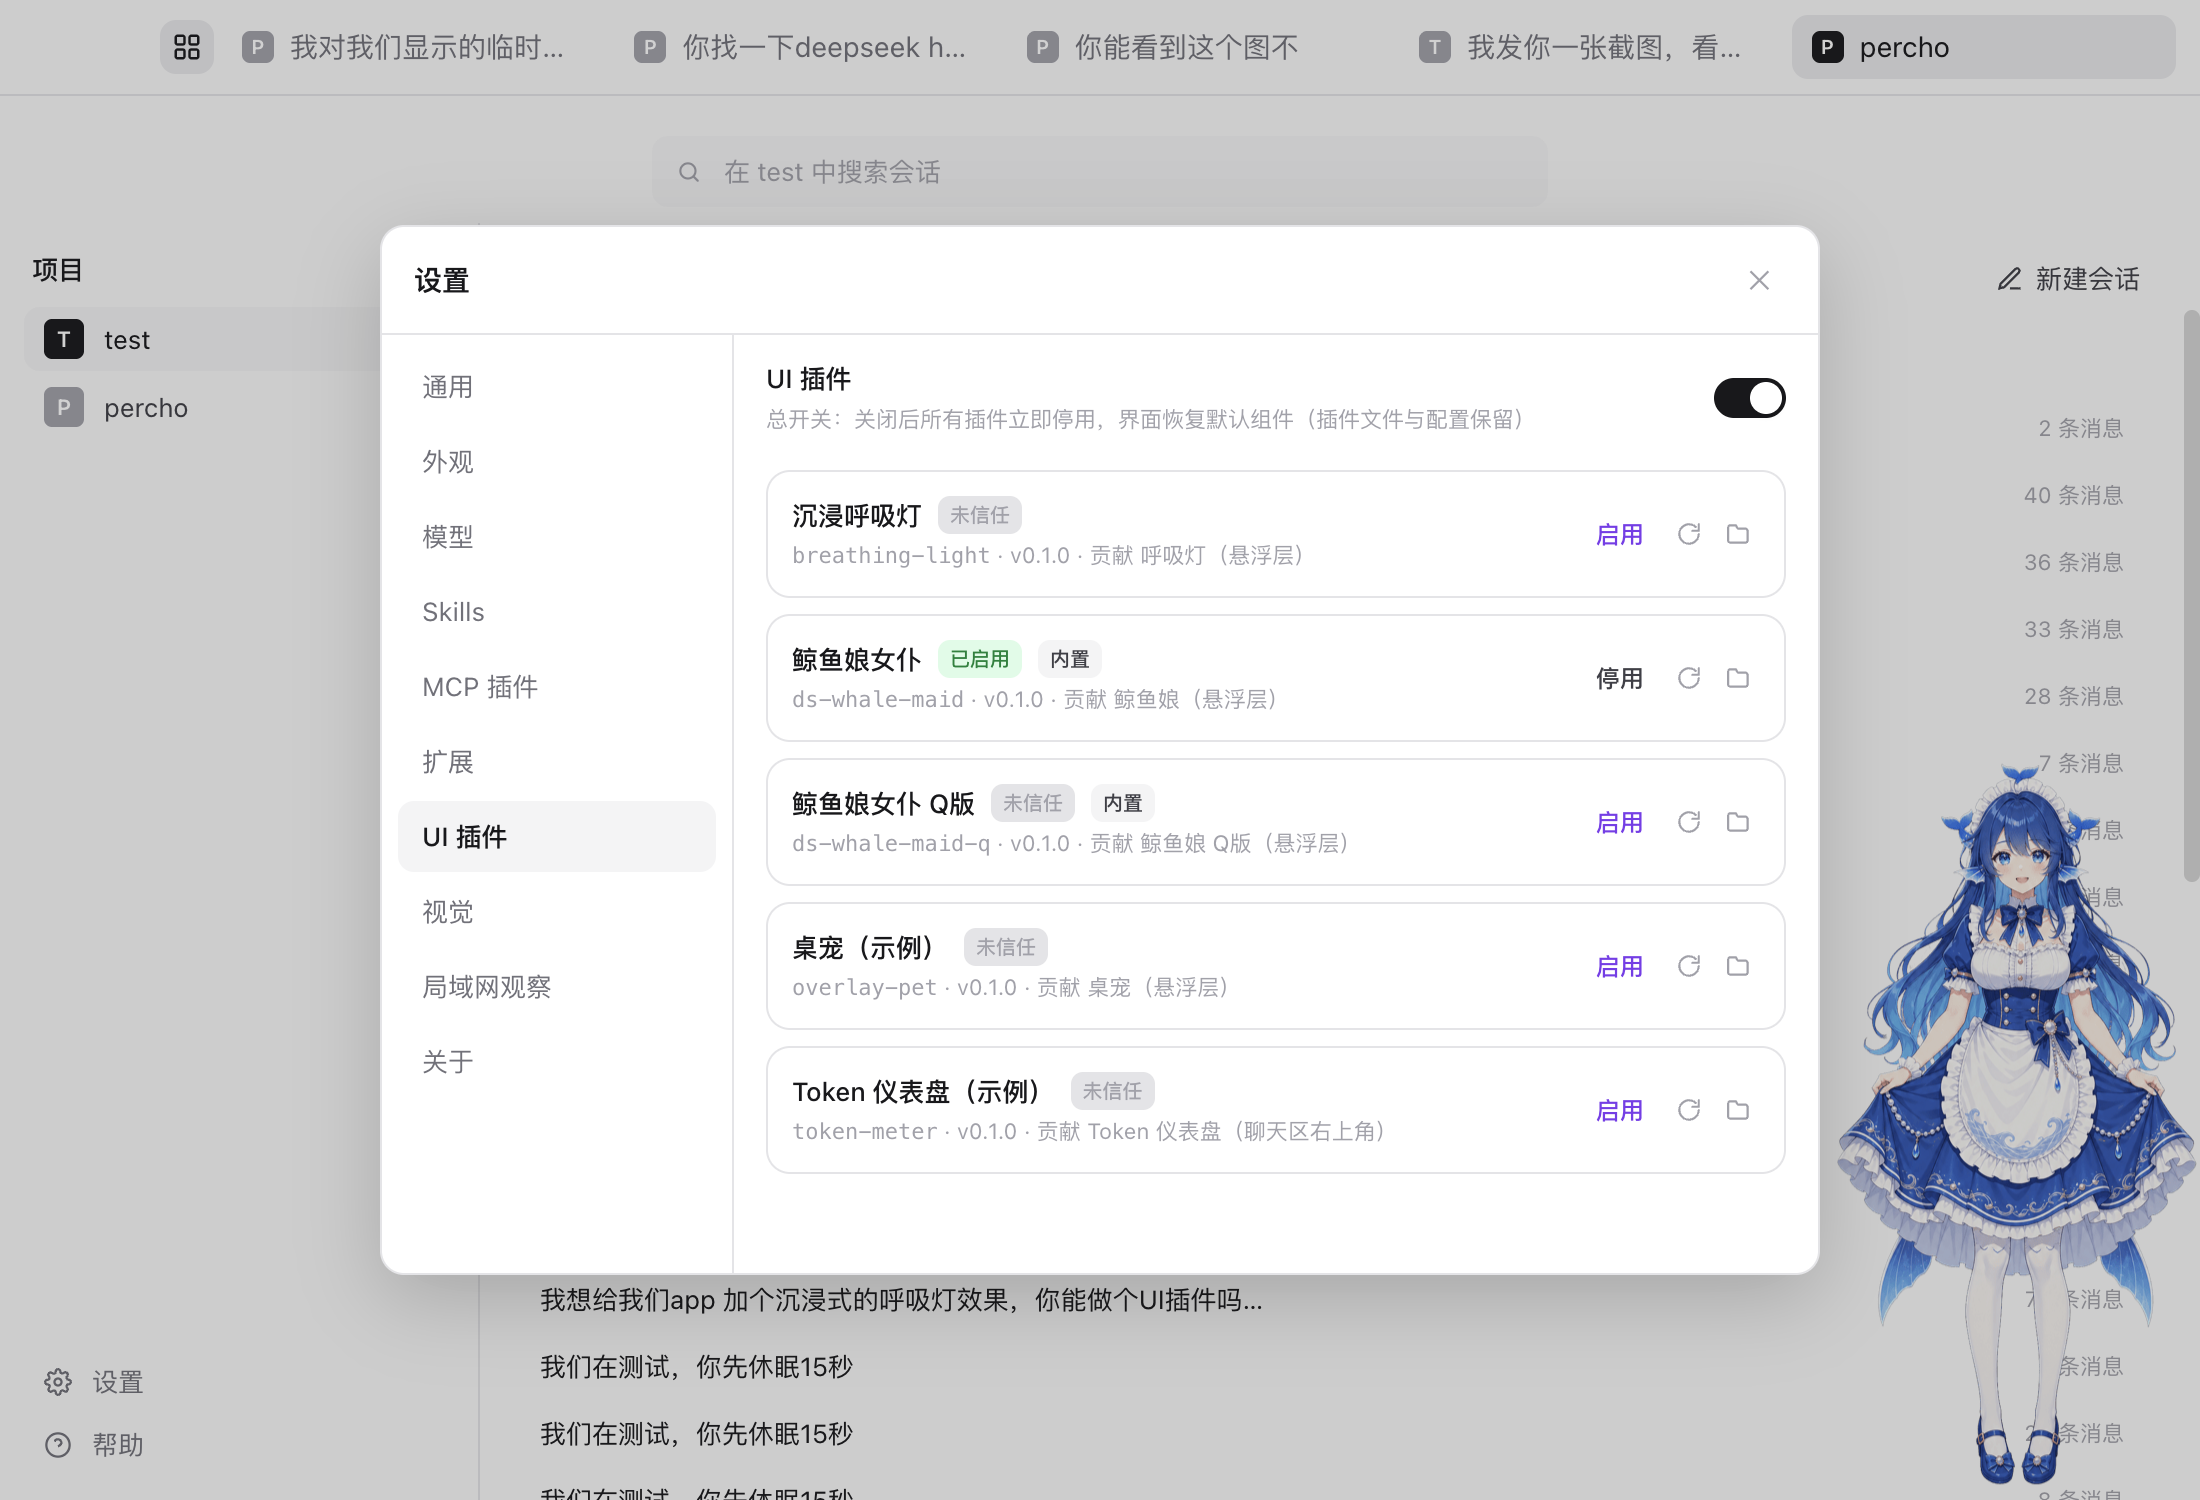
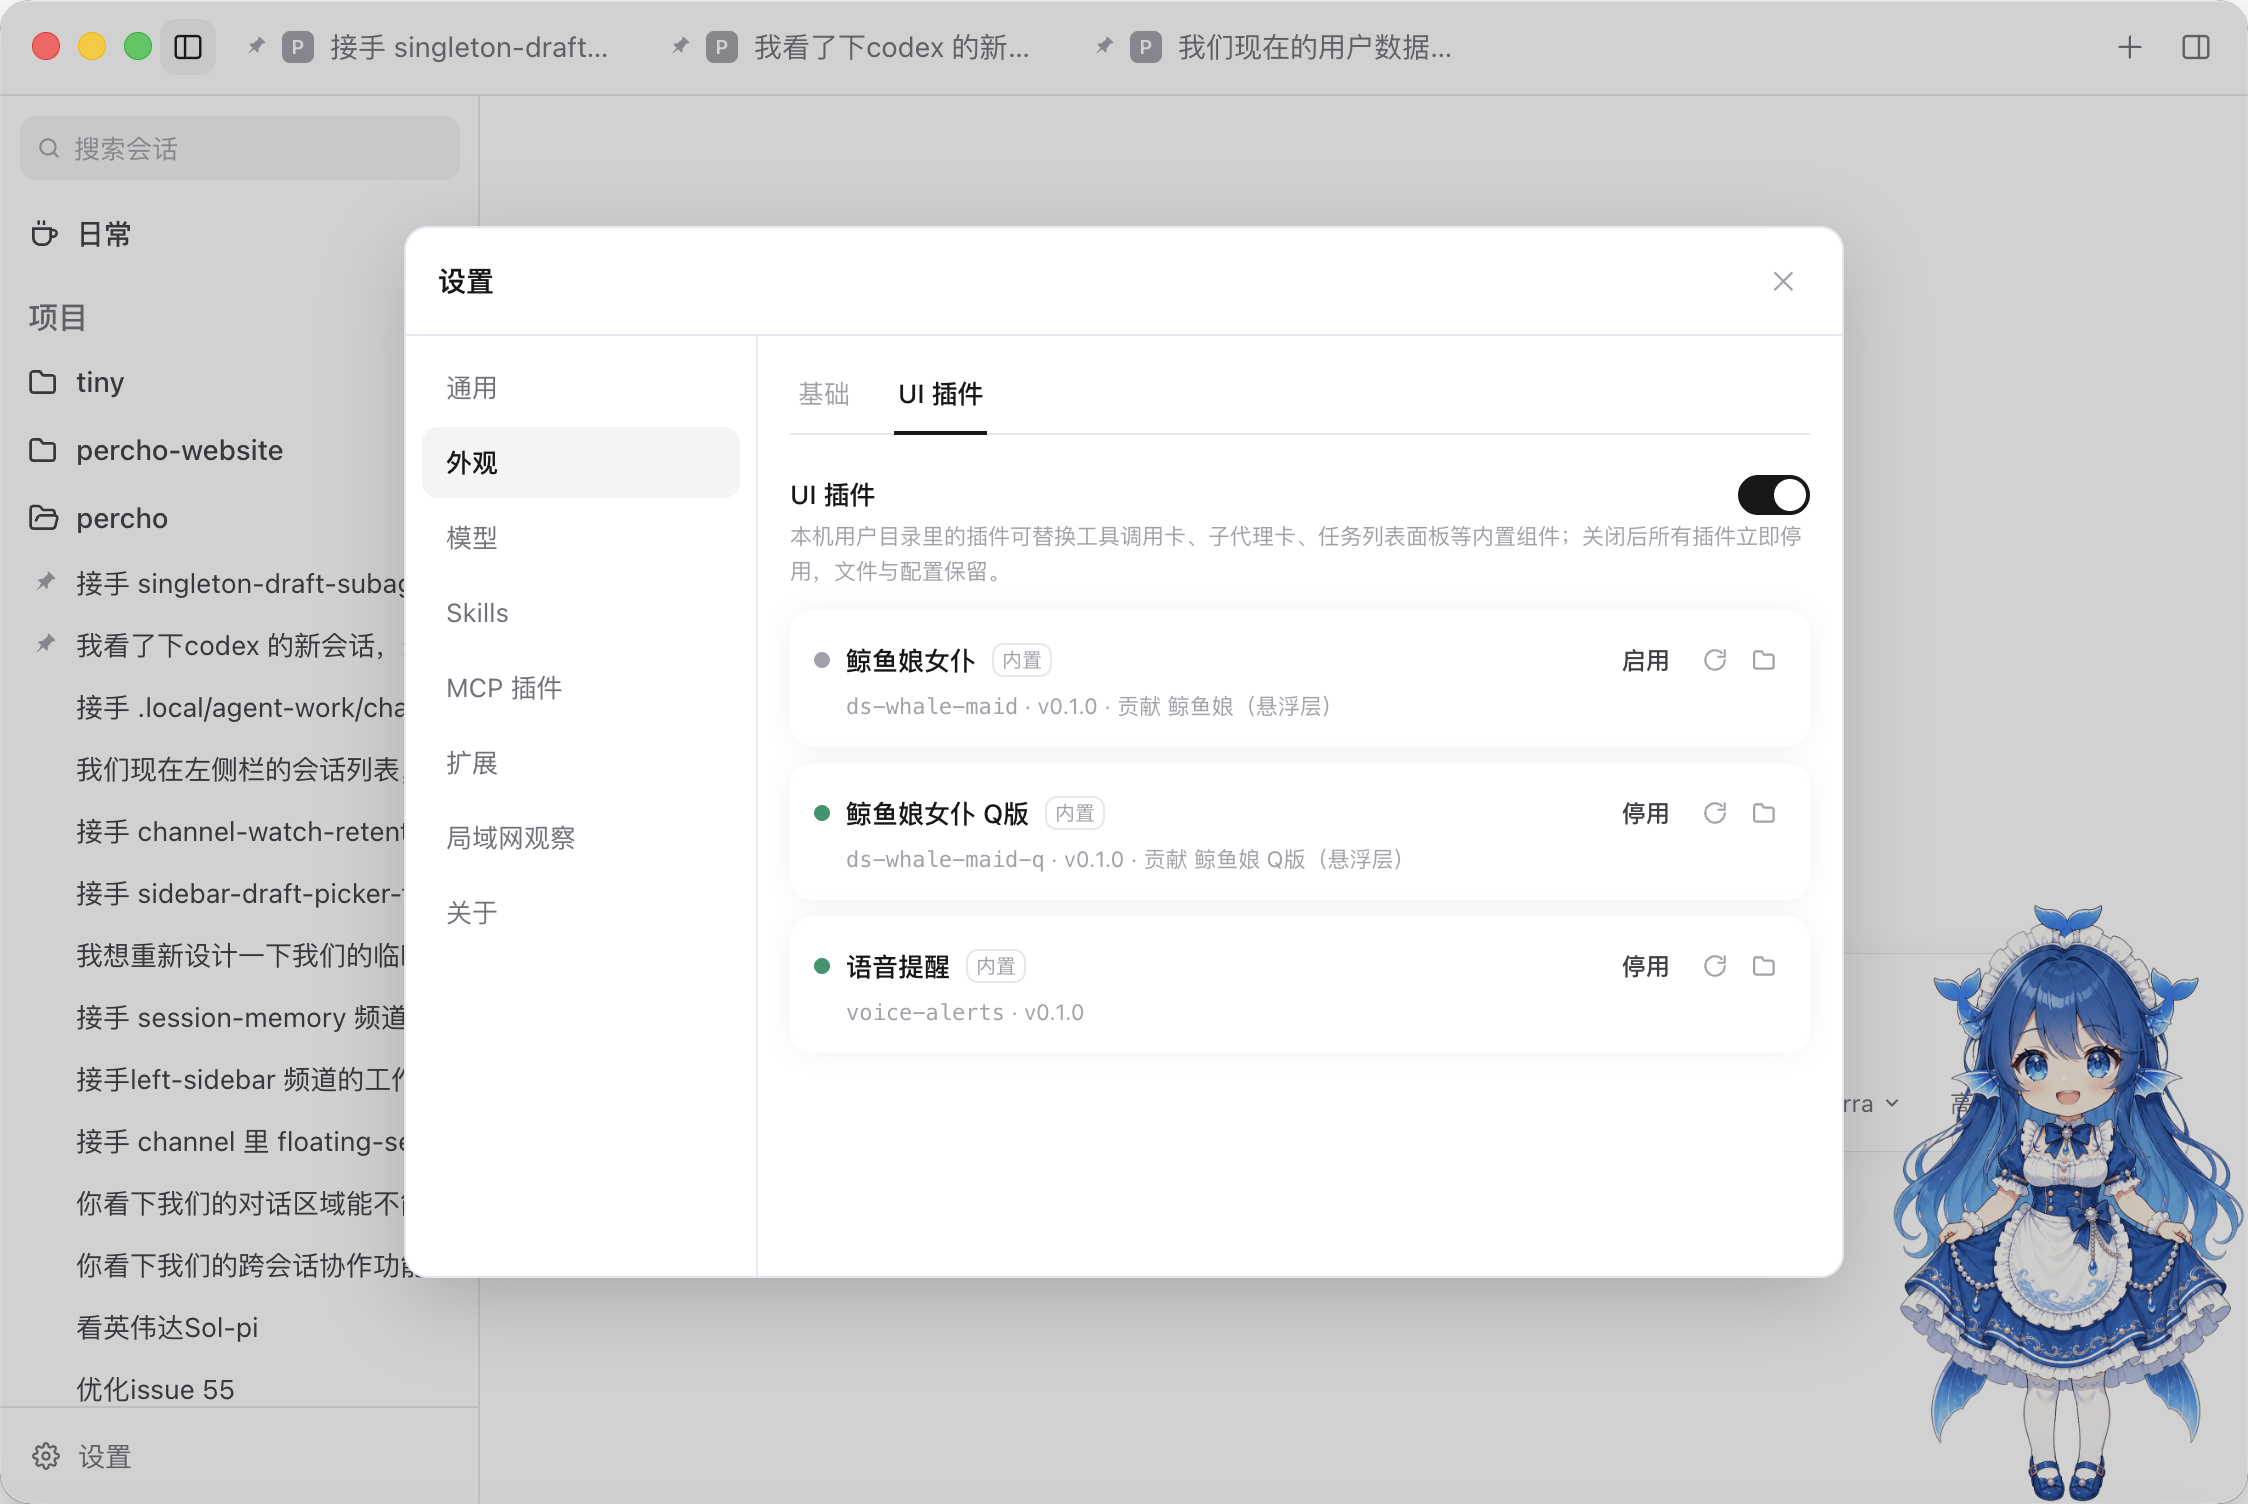
feat(brand): 更新 Percho 图标与 README 展示

diff --git a/packages/desktop/src/main/lan-icon.ts b/packages/desktop/src/main/lan-icon.ts
@@ -1,3 +1,3 @@
 /** PWA 图标（应用图标 512px 缩小 + pngquant 压缩），base64 内联避免 extraResources/dev-packaged 路径分叉。 */
 export const LAN_ICON_PNG_BASE64 =
[2 lines of base64/hex data omitted]

diff --git a/README.md b/README.md
@@ -1,7 +1,10 @@
 <p align="center">
-  <img src="docs/icon.svg" alt="percho logo" width="128">
+  <picture>
+    <source media="(prefers-color-scheme: dark)" srcset="docs/assets/img/readme-hero-dark.svg">
+    <img src="docs/assets/img/readme-hero-light.svg" alt="Percho — geometric construction wordmark and pyramid" width="100%">
+  </picture>
 </p>
-<h1 align="center">percho</h1>
+<h1 align="center">Percho</h1>
 <p align="center">
   Highly customizable desktop GUI for the <a href="https://www.npmjs.com/package/@earendil-works/pi-coding-agent">Pi coding agent</a> — the same engine as the Pi CLI, in a clean visual interface. Multi-session chat, visual tool approvals, built-in subagents, UI plugins, and custom themes.
 </p>
@@ -22,7 +25,11 @@
 
 ## Demo
 
-![percho welcome page with the whale maid desk pet](docs/assets/img/percho_pet.png)
+![Percho new-session page](docs/assets/img/chat_001.png)
+
+![Percho project and session sidebar](docs/assets/img/chat_002.png)
+
+![Percho per-turn diff sidebar](docs/assets/img/chat_003.png)
 
 ![UI plugins settings — the whale maid desk pet ships built in](docs/assets/img/percho_ui_plugins.png)
 
@@ -34,13 +41,9 @@
 
 ![Chat with custom background image in dark theme](docs/assets/img/chat_img_bg_show_img.png)
 
-**Settings — providers & models**
+## Why Percho?
 
-![Settings page demo](docs/assets/img/demo-settings.gif)
-
-## Why percho?
-
-percho embeds the official Pi SDK (`@earendil-works/pi-coding-agent`) in the Electron main process. It is **not a fork and not a reimplementation** — it runs the same engine as the Pi CLI and inherits Pi's native strengths:
+Percho embeds the official Pi SDK (`@earendil-works/pi-coding-agent`) in the Electron main process. It is **not a fork and not a reimplementation** — it runs the same engine as the Pi CLI and inherits Pi's native strengths:
 
 - **Extensibility** — TypeScript extensions, skills, and prompt templates installed for the Pi CLI work here too, including project-local ones (with a trust prompt before loading). Adapt Pi to your workflows, no forking required.
 - **Shared configuration** — same `~/.pi/agent/` directory as the CLI: sessions, auth, and model settings carry over. Start a session in the terminal, continue it in the GUI.
@@ -50,15 +53,15 @@ And for those who prefer a GUI over a TUI:
 
 - Highly customizable UI — swap tool-call cards, drop in desk-pet overlays (two whale-maid pets ship built in), or extend the settings panel via UI plugins
 - Visual permission gates — approve or deny each tool call from a dock, backed by a per-tool rule engine
-- Draggable multi-session tabs (plus an optional session rail), per-session composer drafts, follow-up queue with undo
+- A collapsible project/session sidebar, draggable pinned-session pills, per-session composer drafts, and a follow-up queue with undo
 - Built-in subagents — a scout plus your own agent definitions, parallel task fan-outs, and run cards you can click to inspect the sub-session read-only
 - Context evaporation (on by default) — stale tool outputs age into compact stubs, keeping long sessions within budget
-- Unified error system — in-chat error cards with one-click retry, an auto-retry status line, and a crash-proof renderer
-- Solid session workspace — fork any message, recall your own message back into the composer, todo panel, per-turn diff sidebar, slash-command menu and @-file completion
+- Unified error system — in-chat error cards with one-click retry, an auto-retry status line, and full-page renderer crash recovery
+- Solid session workspace — fork from assistant turns or selected context, recall your own message back into the composer, todo panel, per-turn diff sidebar, slash-command menu and @-file completion
 - Streaming markdown rendering, image previews, message copy
 - Agent-initiated image display — a built-in `show_image` tool lets the agent deliberately show you images inline (single or grouped), without turning every tool result into noise
 - Custom background image with adjustable overlay dimming, light/dark/system themes
-- LAN observer — watch a session read-only from a phone or tablet browser via QR code
+- LAN companion — monitor sessions from a phone or tablet browser via QR code; optionally enable remote prompts, stop generation, and allow-once/deny approval decisions
 
 ## Download
 
@@ -83,10 +86,6 @@ Prebuilt installers are published on the [Releases](https://github.com/Jaxton07/
 >
 > On Linux: make the AppImage executable before first launch (`chmod +x percho-linux-x86_64.AppImage`). On Ubuntu 22.04+/24.04+ and derivatives, install `libfuse2` first — AppImages mount via FUSE 2, which is no longer preinstalled. Linux builds download and install updates in-app.
 
-## Configuration
-
-API keys are never stored in this repo or written into the app bundle. `~/.pi/agent/models.json` references environment variables (e.g. `$AI_OPS_API_KEY`) and keys stay in your shell environment. If you already use the Pi CLI, your existing setup just works.
-
 ## Development
 
 Prerequisites: **Node.js >= 22.19**.
@@ -102,7 +101,7 @@ See [CONTRIBUTING.md](CONTRIBUTING.md) for the full guide. If you are in China a
 
 ## Disclaimer
 
-percho is a community project. It is **not** built by or affiliated with the Pi team (earendil-works).
+Percho is a community project. It is **not** built by or affiliated with the Pi team (earendil-works).
 
 ## License
 

diff --git a/docs/INDEX.md b/docs/INDEX.md
@@ -129,7 +129,7 @@ src/
 | `src/settings/login.ts` | `LoginService` | provider 交互登录桥接：AuthInteraction → IPC 事件（prompt 挂起等 renderer 应答；浏览器先到则拒挂起 prompt）。支持 OAuth + api_key 交互登录（如 Google Vertex）；`filterAuthSelectOptions` 对 google-vertex 剔除必败的 api-key 选项（Vertex 不接受 API key，见 PITFALLS） |
 | `src/packages/admin.ts` | `PackageAdmin` | 社区包搜索/安装/卸载/已配置清单 + 装卸后对非流式会话热重载（对齐 CLI /reload）；npm ENOENT 转带哨兵的可读错误 |
 | `src/packages/catalog.ts` | `fetchPackageCatalog` | pi.dev 目录抓取：无 JSON API，解析 SSR HTML 的 `<article data-package-card>` |
-| `src/lan/server.ts` | `LanObserverServer` | 局域网只读观察：userData 配置 + token 轮换、GET-only HTTP+SSE（timingSafeEqual、5 客户端上限、delta 微批合帧）；projectEvent = 投影更新与帧广播同点（快照带 in-flight 容器，重连无缝） |
+| `src/lan/server.ts` | `LanObserverServer` | 局域网观察与可选远程控制：userData 配置 + token 轮换、HTTP+SSE（timingSafeEqual、5 客户端上限、delta 微批合帧）；远程发送/停止/允许一次或拒绝由独立 `remoteControl` 开关保护；projectEvent = 投影更新与帧广播同点（快照带 in-flight 容器，重连无缝） |
 
 **可观测性**：每会话事件 trace + 关键操作日志（create/open/close/prompt/abort/compact）；main 进程还监听 renderer 崩溃/unresponsive/console。排查 UI 状态问题：`npx tsx scripts/replay-trace.mts --last` 确定性复现。
 
@@ -214,6 +214,8 @@ src/
 | 开屏动画（粒子光团 → 散场） | `renderer/src/styles/splash.css`（全部视觉与编排）+ `splash-dom.ts`（DOM/粒子参数）+ `splash.ts`（时长/单次标记）；首帧主题链 = bootstrap-theme.ts + window.ts + main/index.ts（`?theme=` 传参） |
 | 消息气泡 / 代码块 / mermaid 图 / 高亮 | `components/chat/`（Markdown 样式覆写在 globals.css `.markdown-body`；mermaid 卡在 `chat/MermaidBlock.tsx` + globals.css 末尾两段 `mermaid` 段） |
 | 首页大字 logo（手稿构造字标） | `chat/WordmarkConstruct.tsx`（空心描边 + 制图构造线静态 SVG，canvas 度量字形墨盒后离线固化；改设计重新烘焙）+ globals.css `--lg-ol/c1/c2/lb`（深浅各一套）；设计稿 `.local/design/pi-logo/wordmark.html`（H2 手稿构造） |
+| APP / LAN 图标 | SVG 母版 `packages/desktop/build/icon.svg` → 桌面打包入口 `build/icon.png`（1024px RGBA）；LAN/PWA 同图缩至 512px、pngquant 后内联在 `main/lan-icon.ts`；方向稿 `.local/design/pi-logo/index.html` |
+| README 顶部横幅 | 正式浅/深 SVG：`docs/assets/img/readme-hero-{light,dark}.svg`，`README.md` / `README.zh.md` 用 `<picture>` 随系统主题切换；生成器 `.local/design/readme-header-v2/build.mjs` 直接读取空白页 `WordmarkConstruct.tsx` 的同一份字标 SVG |
 | 报错卡 / 错误分类 | `chat/ErrorNote.tsx` + globals.css（`.error-note*`/`.retry-note`/`.send-error`/`.toast` 段）+ `shared/src/errors.ts`（classifyLlmError 模式表 + 信封构造）+ i18n `error.*`；severity 色改 `--color-err/warn/info`（深浅各一份） |
 | 工作中预览行 / 状态动画 | `chat/PreviewTicker.tsx` + `activity-ticker.ts`（minDwellMs 350）+ `MetaGroup.tsx`（状态行 orb + liveItems）+ `use-sweep-highlight.ts`（统一扫光）+ `use-shown-working.ts`（1500ms 滞后缓冲）+ `CenterOrb.tsx`/`center-orb-draw.ts`（中央版，开关 ui-preferences）+ shared `transcript/meta-summary.ts`（圆点行/统计行） |
 | 输入框 / 发送 / 停止 / 排队 | `composer/Composer.tsx`（装配层）+ `use-composer-send.ts`（发送/停止/取回排队）；草稿持久在 `stores/drafts.ts`；排队事件 `queue_update` + getFollowUpMessages |
